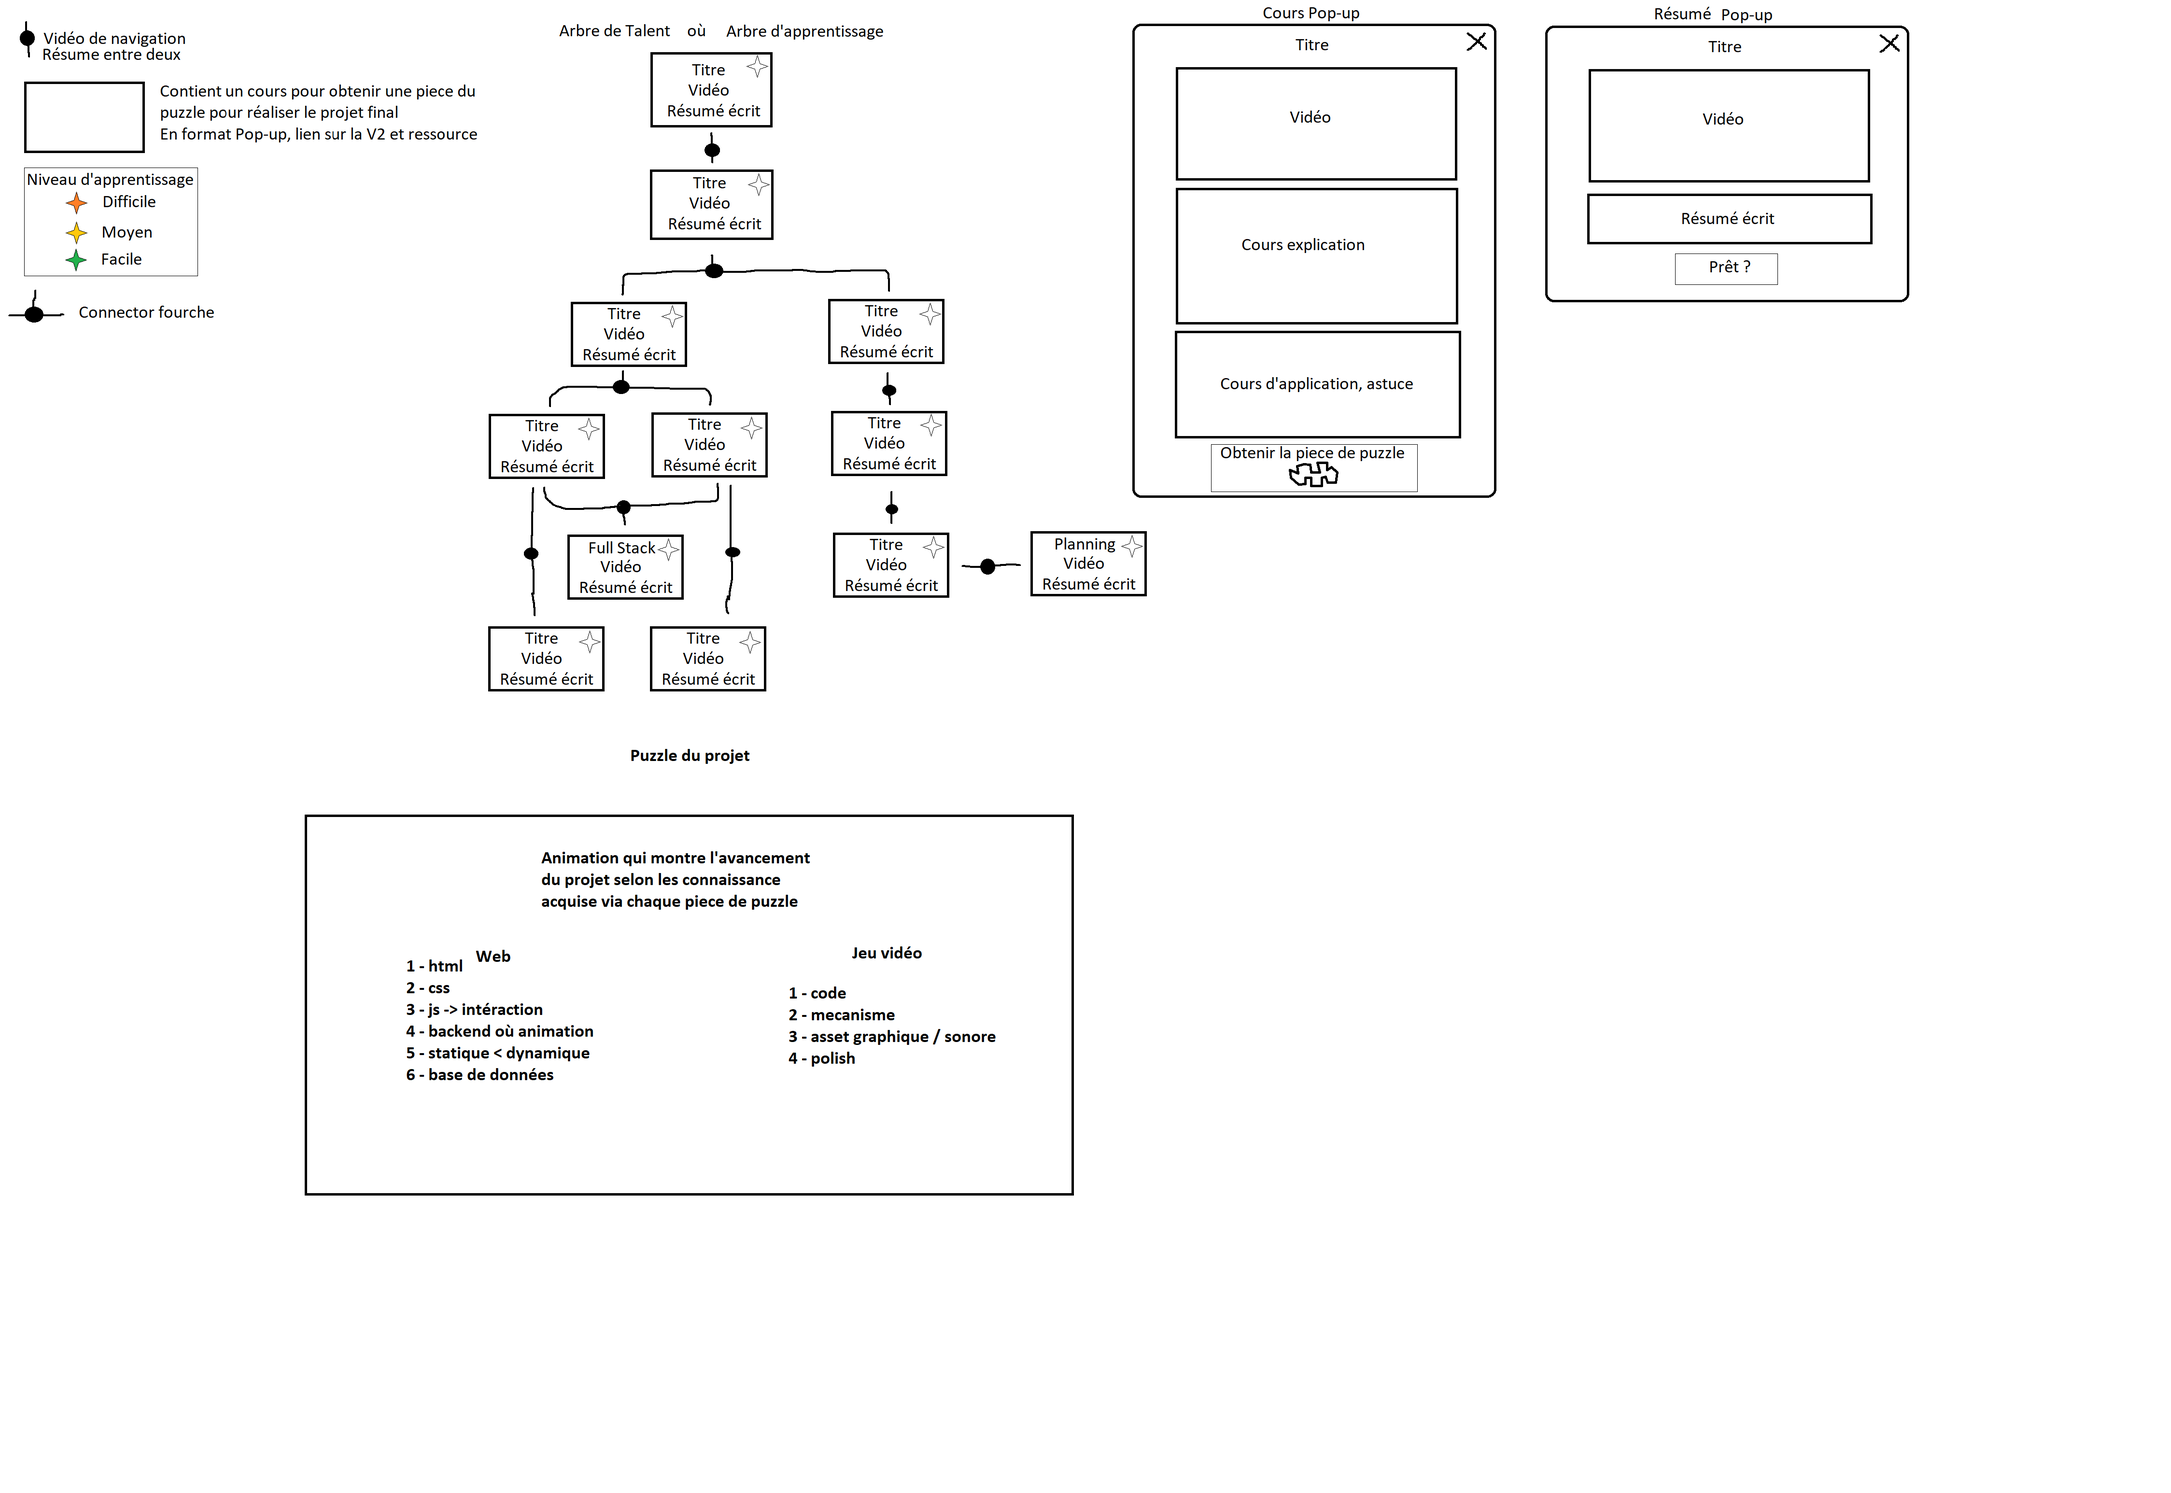
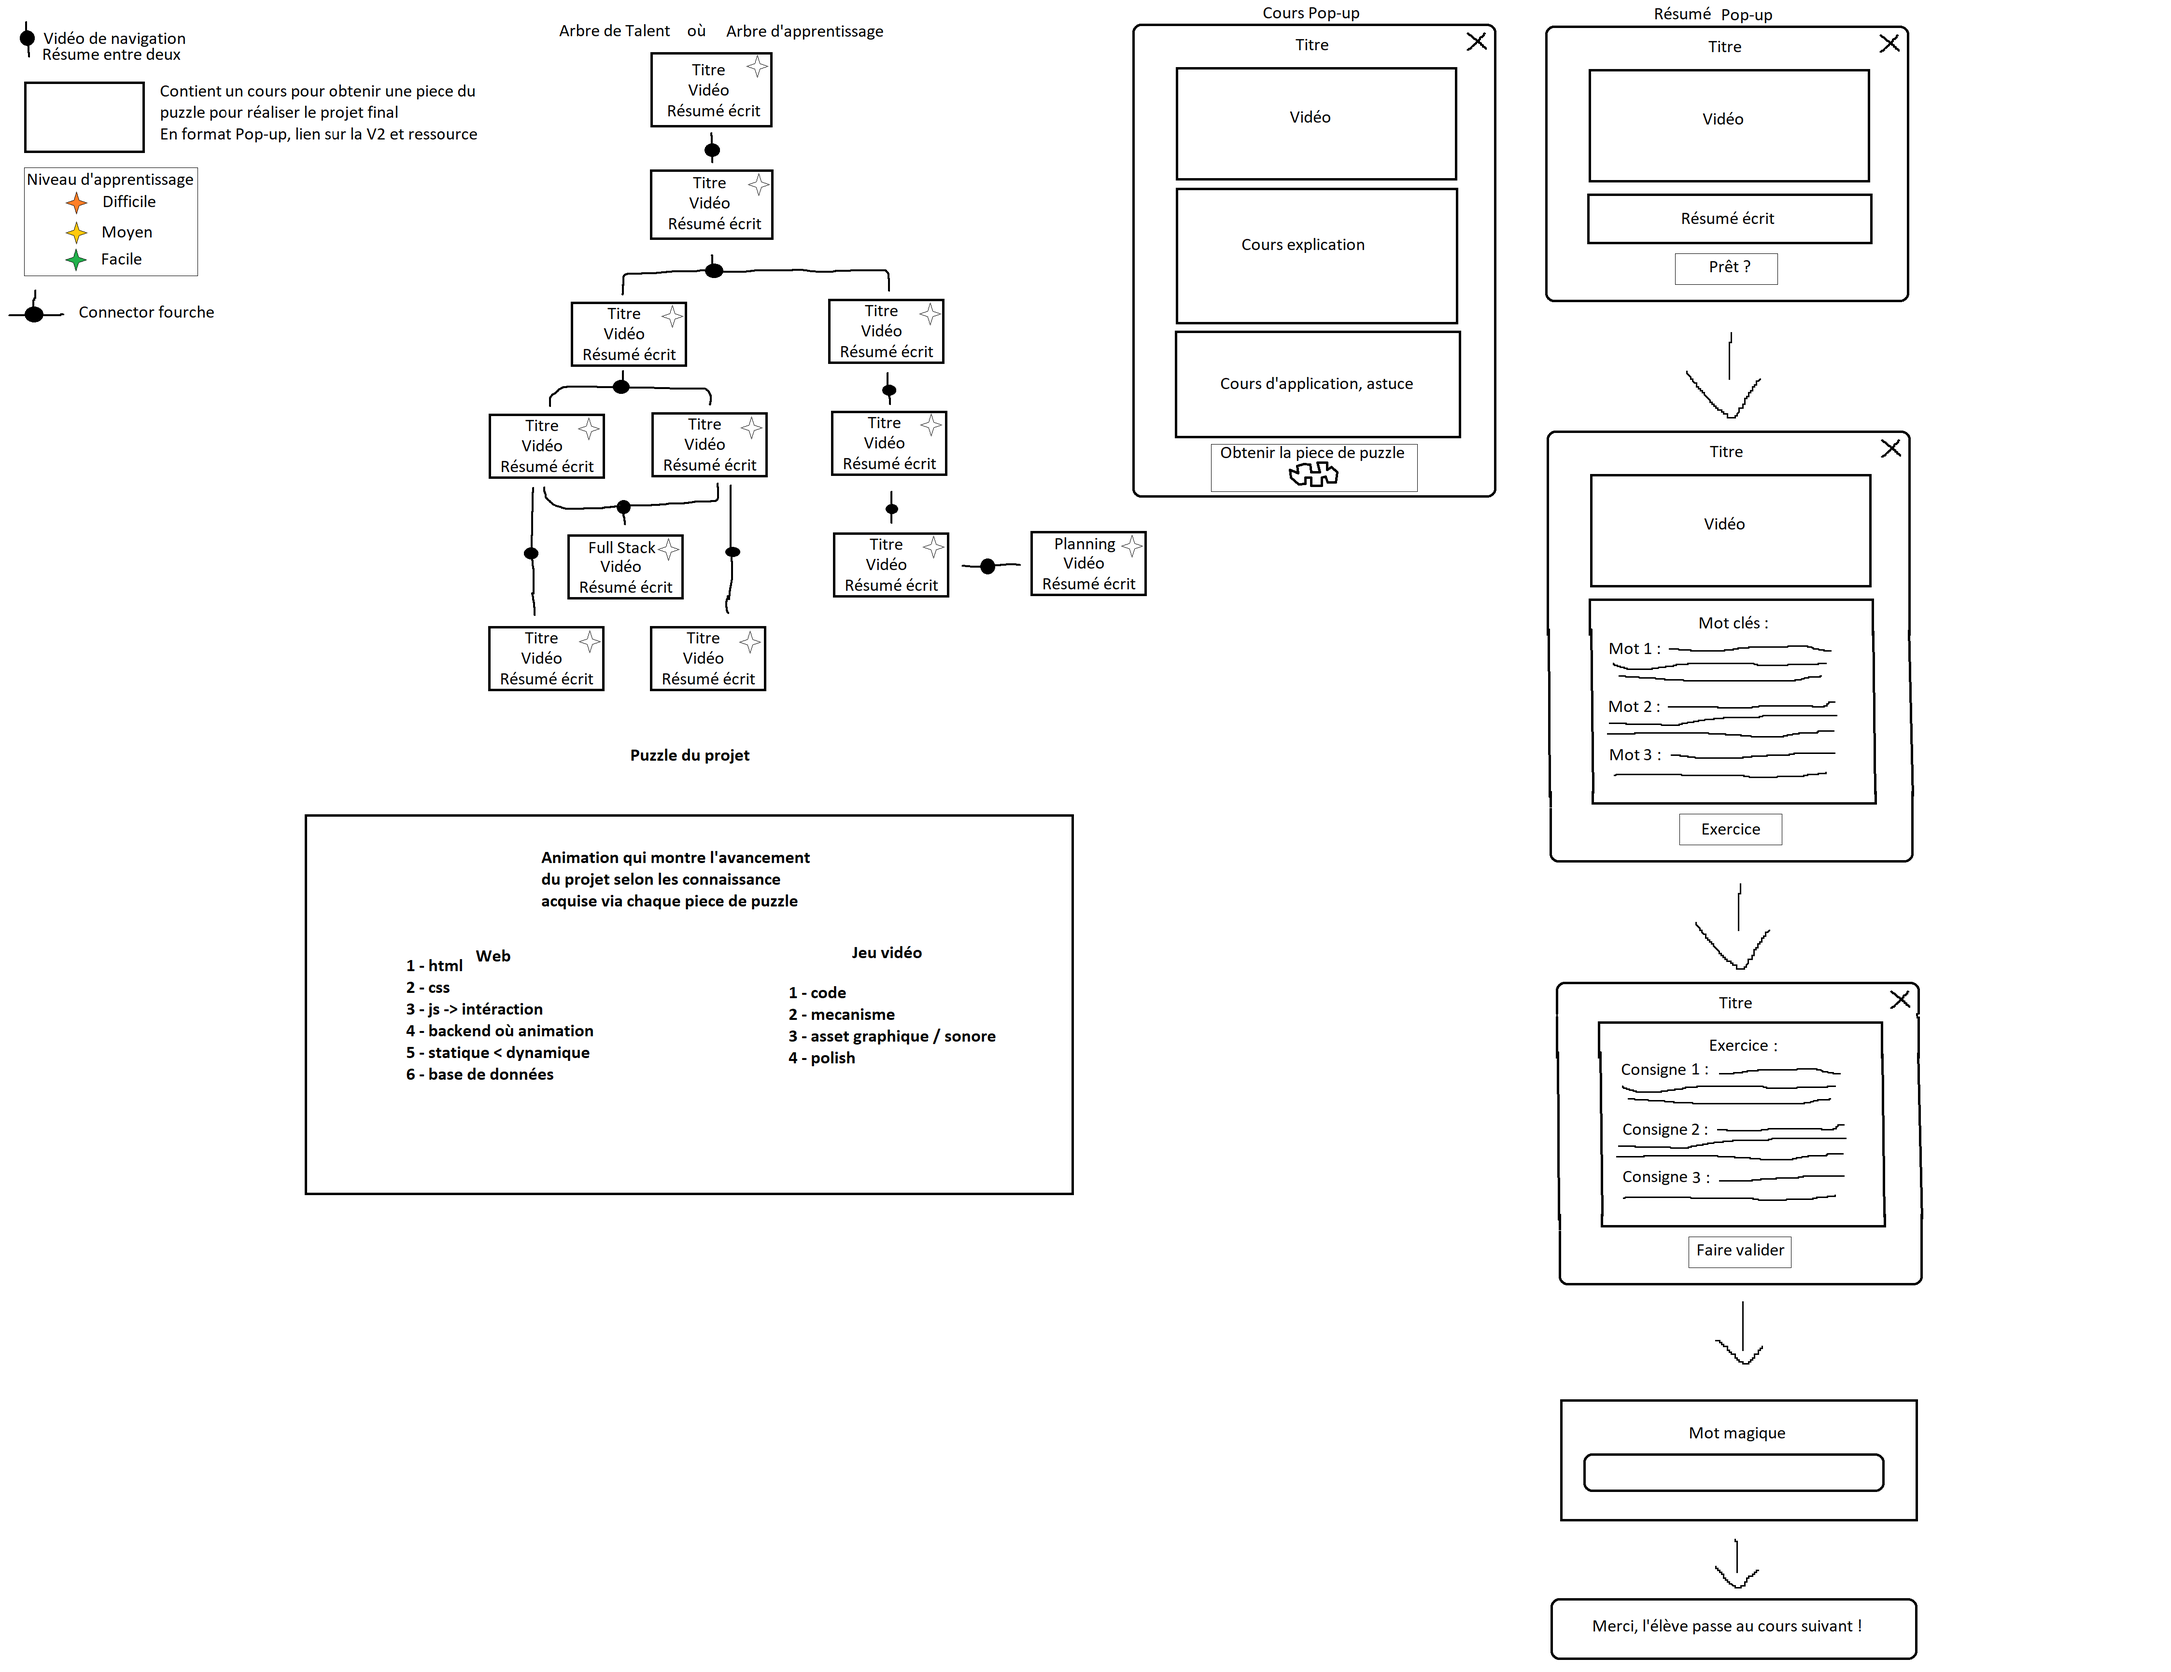
v2.00.5

diff --git a/Asset/js/arbre.js b/Asset/js/arbre.js
@@ -3,6 +3,13 @@
   var UNLOCKED_KEY = 'v3-unlocked-nodes';
   var WATCHED_KEY = 'v3-watched-events';
 
+  // Le rond "Vidéo de transition" après Bienvenue n'est plus accessible dès le
+  // départ (alors que root-welcome, lui, l'est) : son statut par défaut dépend
+  // de cette clé virtuelle, débloquée uniquement en réussissant le mot magique.
+  // Une fois franchi normalement (bouton "J'ai regardé"), il débloque toujours
+  // root-choose comme n'importe quel rond simple.
+  var ROOT_CHOOSE_GATE = 'root-welcome-verified';
+
   // youtubeId : identifiant de la vidéo YouTube (ex: "dQw4w9WgXcQ"), à renseigner
   // manuellement une fois la vidéo tournée. Vide par défaut -> affiche un placeholder.
   // ready : passe à false si le contenu du cours (vidéo + explication + astuce)
@@ -173,6 +180,22 @@
     { id:'join-polish', prevs:['jeu-plateforme-app', 'jeu-shoot-app', 'jeu-rpg-app'], target:'jeu-polish', youtubeId:'',
       video:"Résumé vidéo : peu importe le type de jeu choisi, place maintenant à la touche finale." }
   ];
+
+  // PROTOTYPE — parcours de vérification en 2 étapes (exercice -> mot magique),
+  // proposé après le contenu d'un cours en plus du bouton "Obtenir la pièce".
+  // Réussir le mot magique débloque `unlocks`.
+  // Clé = id du nœud (badge) concerné.
+  var VERIFICATION = {
+    'root-welcome': {
+      consignes: [
+        "Relis une nouvelle fois les règles du club.",
+        "Prépare une question à poser à ton formateur si quelque chose n'est pas clair.",
+        "Décide déjà si tu penses plutôt partir vers le Web ou le Jeu vidéo — tu pourras changer d'avis plus tard."
+      ],
+      magicWord: 'Ibracadabra',
+      unlocks: ROOT_CHOOSE_GATE
+    }
+  };
 
   var DEFAULT_UNLOCKED = ['root-welcome'];
 
@@ -368,6 +391,9 @@
 
   function buildTree(){
     buildChain(document.getElementById('root-chain'), ROOT_NODES);
+    // Ce rond n'est plus débloqué par défaut avec root-welcome : il attend la
+    // clé virtuelle posée par le parcours de vérification (mot magique).
+    document.getElementById('evt-root-choose').dataset.prevNode = ROOT_CHOOSE_GATE;
     buildForkConnector(document.getElementById('root-fork-wrap'), FORK_EVENTS[0]);
 
     var webCol = document.querySelector('.branch-col[data-branch="web"]');
@@ -440,6 +466,15 @@
   var pieceIcon = document.getElementById('modal-piece-icon');
   var pieceLabel = document.getElementById('modal-piece-label');
   var piecePrompt = document.getElementById('modal-piece-prompt');
+  var modalHead = document.getElementById('modal-head');
+  var continueRow = document.getElementById('continue-row');
+  var continueBtn = document.getElementById('modal-continue-btn');
+  var verifyFlow = document.getElementById('verify-flow');
+  var currentVerify = null;
+
+  function setContinueVisible(visible){
+    continueRow.classList.toggle('show', visible);
+  }
 
   // Fonction à appeler pour "regarder" chaque type de rond de transition.
   var WATCH_TRANSITION = { event:watchEvent, 'fork-event':watchForkEvent, 'join-event':watchJoinEvent };
@@ -478,6 +513,7 @@
     if(!node) return;
     currentMode = 'summary';
     currentId = id;
+    modalHead.classList.remove('hidden');
     document.getElementById('modal-title').textContent = node.title.replace(/&lt;/g,'<');
     populateVideo(node);
 
@@ -489,6 +525,8 @@
 
     pieceBtn.style.display = 'none';
     piecePrompt.style.display = 'none';
+    setContinueVisible(false);
+    verifyFlow.classList.remove('show');
 
     var unlocked = isUnlocked(id);
     readyBtn.classList.add('show');
@@ -502,6 +540,7 @@
     if(!node) return;
     currentMode = 'course';
     currentId = id;
+    modalHead.classList.remove('hidden');
     document.getElementById('modal-title').textContent = node.title.replace(/&lt;/g,'<');
     populateVideo(node);
 
@@ -517,8 +556,51 @@
     pieceBtn.classList.add('icon-only');
     pieceLabel.classList.add('sr-only');
     piecePrompt.style.display = node.noPiece ? 'none' : '';
+    verifyFlow.classList.remove('show');
+    setContinueVisible(!!VERIFICATION[id]);
     refreshModalFooter();
     overlay.classList.add('open');
+  }
+
+  // PROTOTYPE — ouvre le parcours de vérification pour le nœud en cours.
+  // Étape 1 (exercice) : consignes affichées, pas de validation automatique
+  // (l'élève travaille hors pop-up). Étape 2 (mot magique) : seule étape
+  // réellement vérifiée — la réussir débloque le nœud visé par `unlocks`.
+  // Les étapes mot magique et merci n'ont ni barre de titre ni bouton fermer
+  // (boîtes simples).
+  function openVerifyFlow(id){
+    var verify = VERIFICATION[id];
+    if(!verify) return;
+    currentVerify = verify;
+    explainBlock.style.display = 'none';
+    applyBlock.style.display = 'none';
+    pieceBtn.style.display = 'none';
+    piecePrompt.style.display = 'none';
+    setContinueVisible(false);
+    modalHead.classList.remove('hidden');
+    document.getElementById('modal-title').textContent = '🔑 Vérifie ta compréhension';
+    verifyFlow.classList.add('show');
+    showVerifyStep('exercise');
+  }
+
+  function showVerifyStep(step){
+    ['exercise', 'magicword', 'merci'].forEach(function(s){
+      document.getElementById('verify-' + s).style.display = (s === step) ? '' : 'none';
+    });
+    modalHead.classList.toggle('hidden', step === 'magicword' || step === 'merci');
+    if(step === 'exercise'){
+      var list = document.getElementById('verify-consignes-list');
+      list.innerHTML = '';
+      currentVerify.consignes.forEach(function(c){
+        var li = document.createElement('li');
+        li.textContent = c;
+        list.appendChild(li);
+      });
+    }
+    if(step === 'magicword'){
+      document.getElementById('verify-magicword-input').value = '';
+      document.getElementById('verify-magicword-error').style.display = 'none';
+    }
   }
 
   // Coquille commune aux trois types de pop-up "vidéo de transition"
@@ -527,6 +609,7 @@
   function openTransitionModal(mode, id, videoNode){
     currentMode = mode;
     currentId = id;
+    modalHead.classList.remove('hidden');
     document.getElementById('modal-title').textContent = '🎬 Vidéo de transition';
     populateVideo(videoNode);
     explainBlock.style.display = 'none';
@@ -537,6 +620,8 @@
     pieceBtn.classList.remove('icon-only');
     pieceLabel.classList.remove('sr-only');
     piecePrompt.style.display = 'none';
+    setContinueVisible(false);
+    verifyFlow.classList.remove('show');
     refreshModalFooter();
     overlay.classList.add('open');
   }
@@ -556,14 +641,54 @@
   function closeModal(){
     overlay.classList.remove('open');
     videoFrame.src = '';
+    modalHead.classList.remove('hidden');
+    verifyFlow.classList.remove('show');
     currentMode = null;
     currentId = null;
+    currentVerify = null;
   }
 
   readyBtn.addEventListener('click', function(){
     if(readyBtn.disabled || !currentId) return;
     openCourseModal(currentId);
   });
+
+  continueBtn.addEventListener('click', function(){
+    if(!currentId) return;
+    openVerifyFlow(currentId);
+  });
+
+  document.getElementById('modal-back-btn').addEventListener('click', function(){
+    if(!currentId) return;
+    openSummaryModal(currentId);
+  });
+
+  document.getElementById('verify-exercise-btn').addEventListener('click', function(){
+    showVerifyStep('magicword');
+  });
+
+  document.getElementById('verify-exercise-back-btn').addEventListener('click', function(){
+    if(!currentId) return;
+    openCourseModal(currentId);
+  });
+
+  document.getElementById('verify-magicword-btn').addEventListener('click', function(){
+    var input = document.getElementById('verify-magicword-input');
+    var val = input.value.trim().toLowerCase();
+    if(currentVerify && val === currentVerify.magicWord.toLowerCase()){
+      unlockNode(currentVerify.unlocks);
+      renderLockState();
+      showVerifyStep('merci');
+    } else {
+      document.getElementById('verify-magicword-error').style.display = '';
+    }
+  });
+
+  document.getElementById('verify-magicword-back-btn').addEventListener('click', function(){
+    showVerifyStep('exercise');
+  });
+
+  document.getElementById('verify-merci-btn').addEventListener('click', closeModal);
 
   function refreshModalFooter(){
     if(WATCH_TRANSITION[currentMode]){

diff --git a/Cours/v3/arbre.html b/Cours/v3/arbre.html
@@ -61,7 +61,7 @@
 <!-- MODAL -->
 <div class="modal-overlay" id="modal-overlay">
   <div class="modal-box">
-    <div class="modal-head">
+    <div class="modal-head" id="modal-head">
       <h3 id="modal-title">Titre</h3>
       <button class="modal-close" id="modal-close" type="button">✕</button>
     </div>
@@ -94,6 +94,46 @@
       <button class="piece-btn" id="modal-piece-btn" type="button">
         <span id="modal-piece-icon">🧩</span><span id="modal-piece-label">Obtenir la pièce du puzzle</span>
       </button>
+      <div class="btn-row" id="continue-row">
+        <button class="back-btn" id="modal-back-btn" type="button">Retour</button>
+        <button class="ready-btn" id="modal-continue-btn" type="button">Continuer →</button>
+      </div>
+
+      <!-- PARCOURS DE VÉRIFICATION (prototype) : exercice -> mot magique -> merci -->
+      <div class="verify-flow" id="verify-flow">
+        <!-- Étape 1 : garde la barre de titre + ✕ -->
+        <div class="verify-step" id="verify-exercise">
+          <div class="modal-block apply">
+            <div class="mb-label">📝 Exercice</div>
+            <ol class="verify-consignes" id="verify-consignes-list"></ol>
+          </div>
+          <div class="btn-row show">
+            <button class="back-btn show" id="verify-exercise-back-btn" type="button">Retour</button>
+            <button class="ready-btn show" id="verify-exercise-btn" type="button">Faire valider</button>
+          </div>
+        </div>
+
+        <!-- Étape 2 : boîte simple, pas de barre de titre ni de ✕ -->
+        <div class="verify-step verify-plain" id="verify-magicword" style="display:none;">
+          <div class="modal-block video">
+            <div class="mb-label">🔐 Mot magique</div>
+            <input type="password" id="verify-magicword-input" placeholder="Mot magique…">
+            <p class="verify-error" id="verify-magicword-error" style="display:none;">Ce n'est pas le bon mot, réessaie !</p>
+          </div>
+          <div class="btn-row show">
+            <button class="back-btn show" id="verify-magicword-back-btn" type="button">Retour</button>
+            <button class="ready-btn show" id="verify-magicword-btn" type="button">Valider</button>
+          </div>
+        </div>
+
+        <!-- Étape 3 : boîte simple, pas de barre de titre ni de ✕ -->
+        <div class="verify-step verify-plain" id="verify-merci" style="display:none;">
+          <div class="modal-block explain" style="text-align:center;">
+            <p style="font-weight:800;font-size:1.05rem;">🎉 Merci, l'élève passe au cours suivant !</p>
+          </div>
+          <button class="ready-btn show" id="verify-merci-btn" type="button">Fermer</button>
+        </div>
+      </div>
     </div>
   </div>
 </div>

diff --git a/Asset/css/arbre.css b/Asset/css/arbre.css
@@ -207,6 +207,18 @@
   .ready-btn.locked{ background:#EDEBE3; color:var(--sub); cursor:not-allowed; }
   .ready-btn.locked:hover{ background:#EDEBE3; }
 
+  /* Ligne bouton retour + bouton principal (proportion ~30/70) */
+  .btn-row{ display:none; gap:0.5rem; margin-top:0.4rem; }
+  .btn-row.show{ display:flex; }
+  .btn-row .ready-btn{ display:block; width:auto; flex:7 1 0; margin-top:0; }
+  .btn-row .back-btn{ display:block; }
+  .back-btn{
+    display:none; flex:3 1 0; margin-top:0; border:1.5px solid #85B7EB; border-radius:10px; padding:0.75rem;
+    font-weight:800; font-size:0.92rem; cursor:pointer; background:var(--blue-bg); color:var(--blue);
+    transition:background .15s, border-color .15s;
+  }
+  .back-btn:hover{ background:#B5D4F4; }
+
   .piece-prompt{ text-align:center; margin:0.6rem 0 0.9rem; }
   .piece-prompt-main{ font-size:0.9rem; font-weight:800; color:var(--ink); line-height:1.4; margin:0 0 0.5rem; }
   .piece-prompt-sub{ font-size:0.8rem; font-weight:600; color:var(--sub); line-height:1.45; margin:0; }
@@ -242,6 +254,21 @@
   @media (prefers-reduced-motion: reduce){
     .piece-btn.icon-only{ animation:none; }
   }
+
+  /* ---- Parcours de vérification (prototype) ---- */
+  .verify-flow{ display:none; }
+  .verify-flow.show{ display:block; }
+  #verify-magicword-input{
+    font-family:inherit; font-size:0.9rem; padding:8px 10px; border:1.5px solid var(--border);
+    border-radius:8px; background:#fff; color:var(--ink); width:100%;
+  }
+  #verify-magicword-input:focus{ outline:2px solid var(--blue); outline-offset:1px; }
+  .verify-consignes{ margin:4px 0 0; padding-left:1.2rem; font-size:0.88rem; line-height:1.7; }
+  .verify-error{ color:var(--difficile); font-size:0.82rem; font-weight:700; margin-top:0.6rem; }
+
+  /* Étapes 2 et 3 : boîtes simples, sans barre de titre ni bouton fermer */
+  .modal-head.hidden{ display:none; }
+  .verify-plain .modal-block{ margin-top:0; }
 
   /* ---- Puzzle du projet ---- */
   .puzzle-heading{ text-align:center; font-weight:800; font-size:1.3rem; margin:2.5rem 0 0.4rem; }
